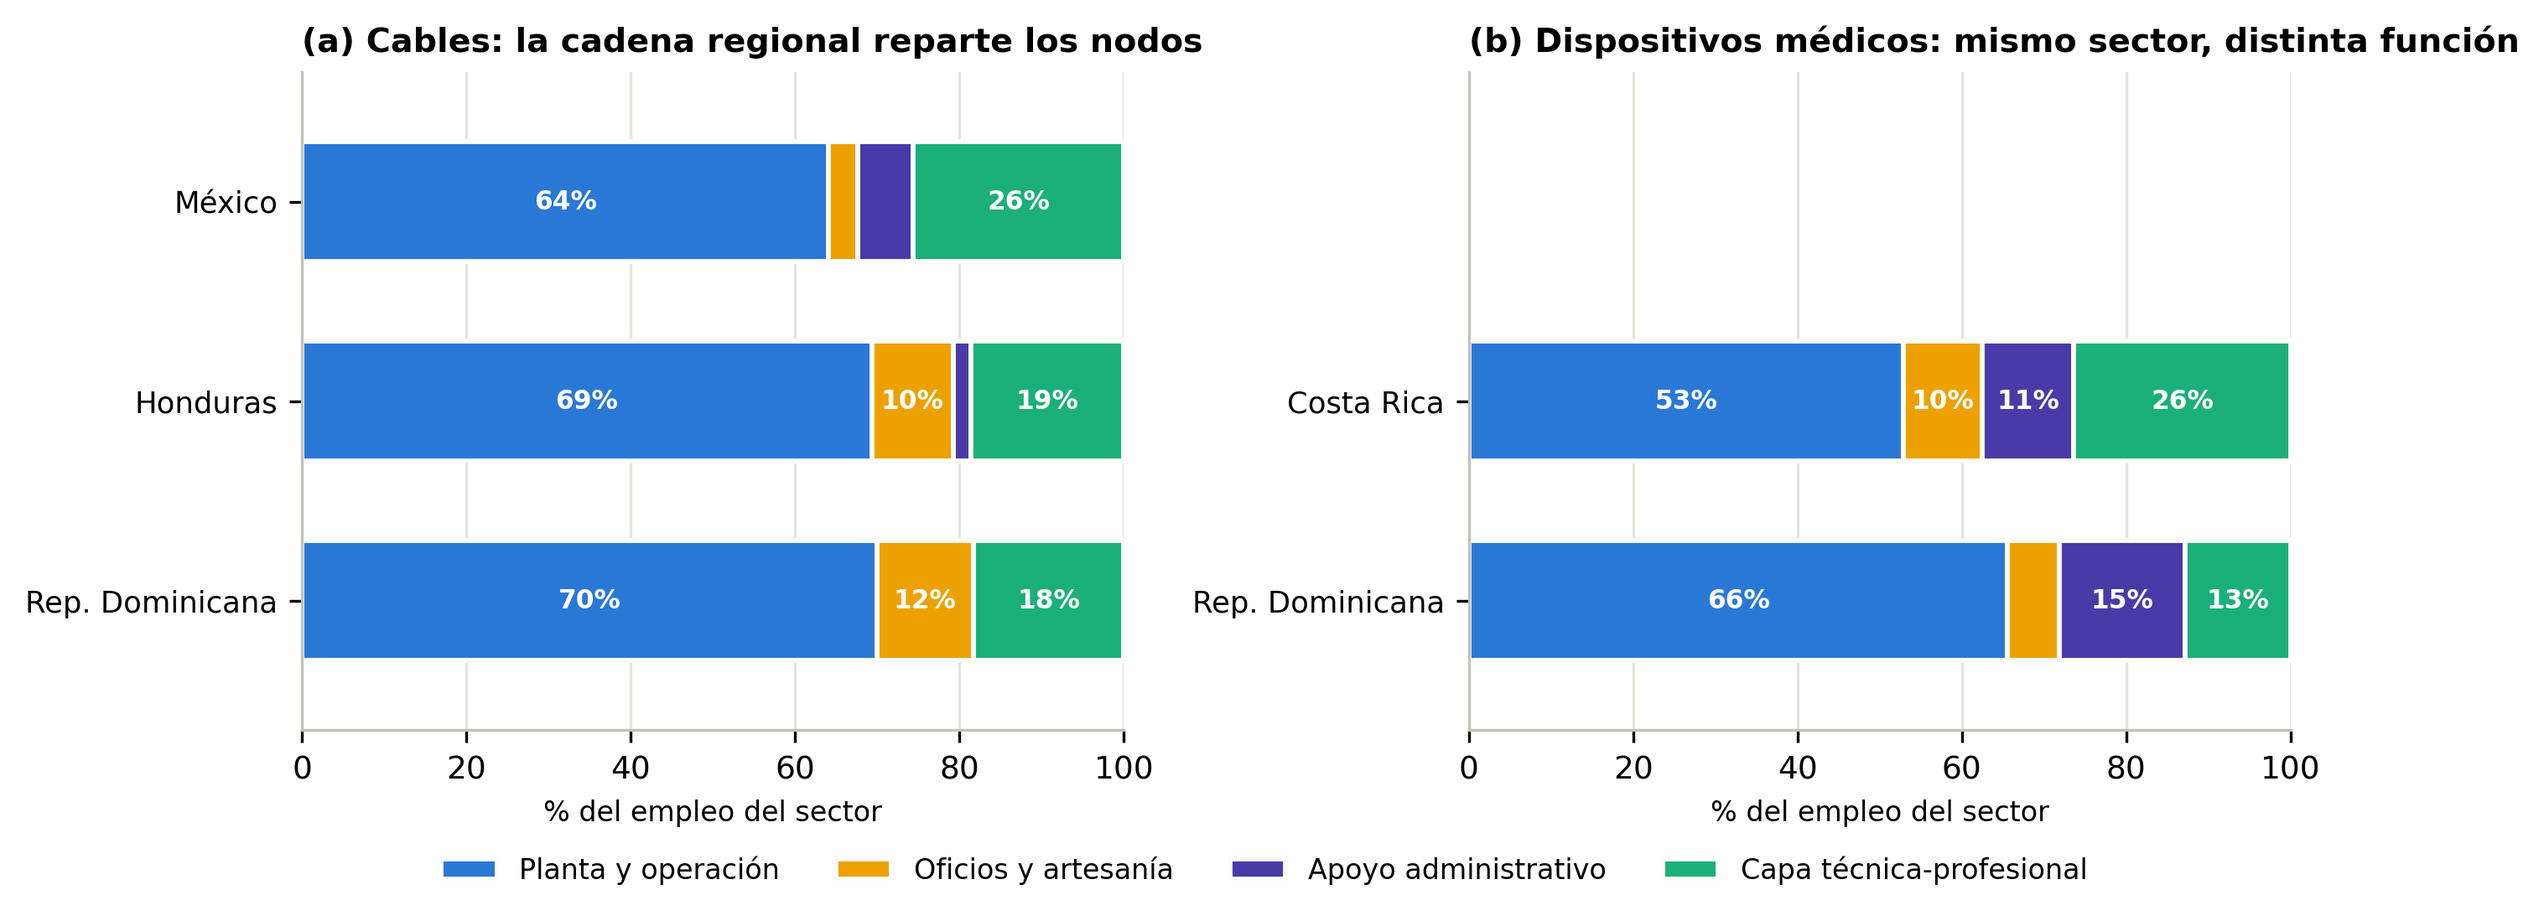
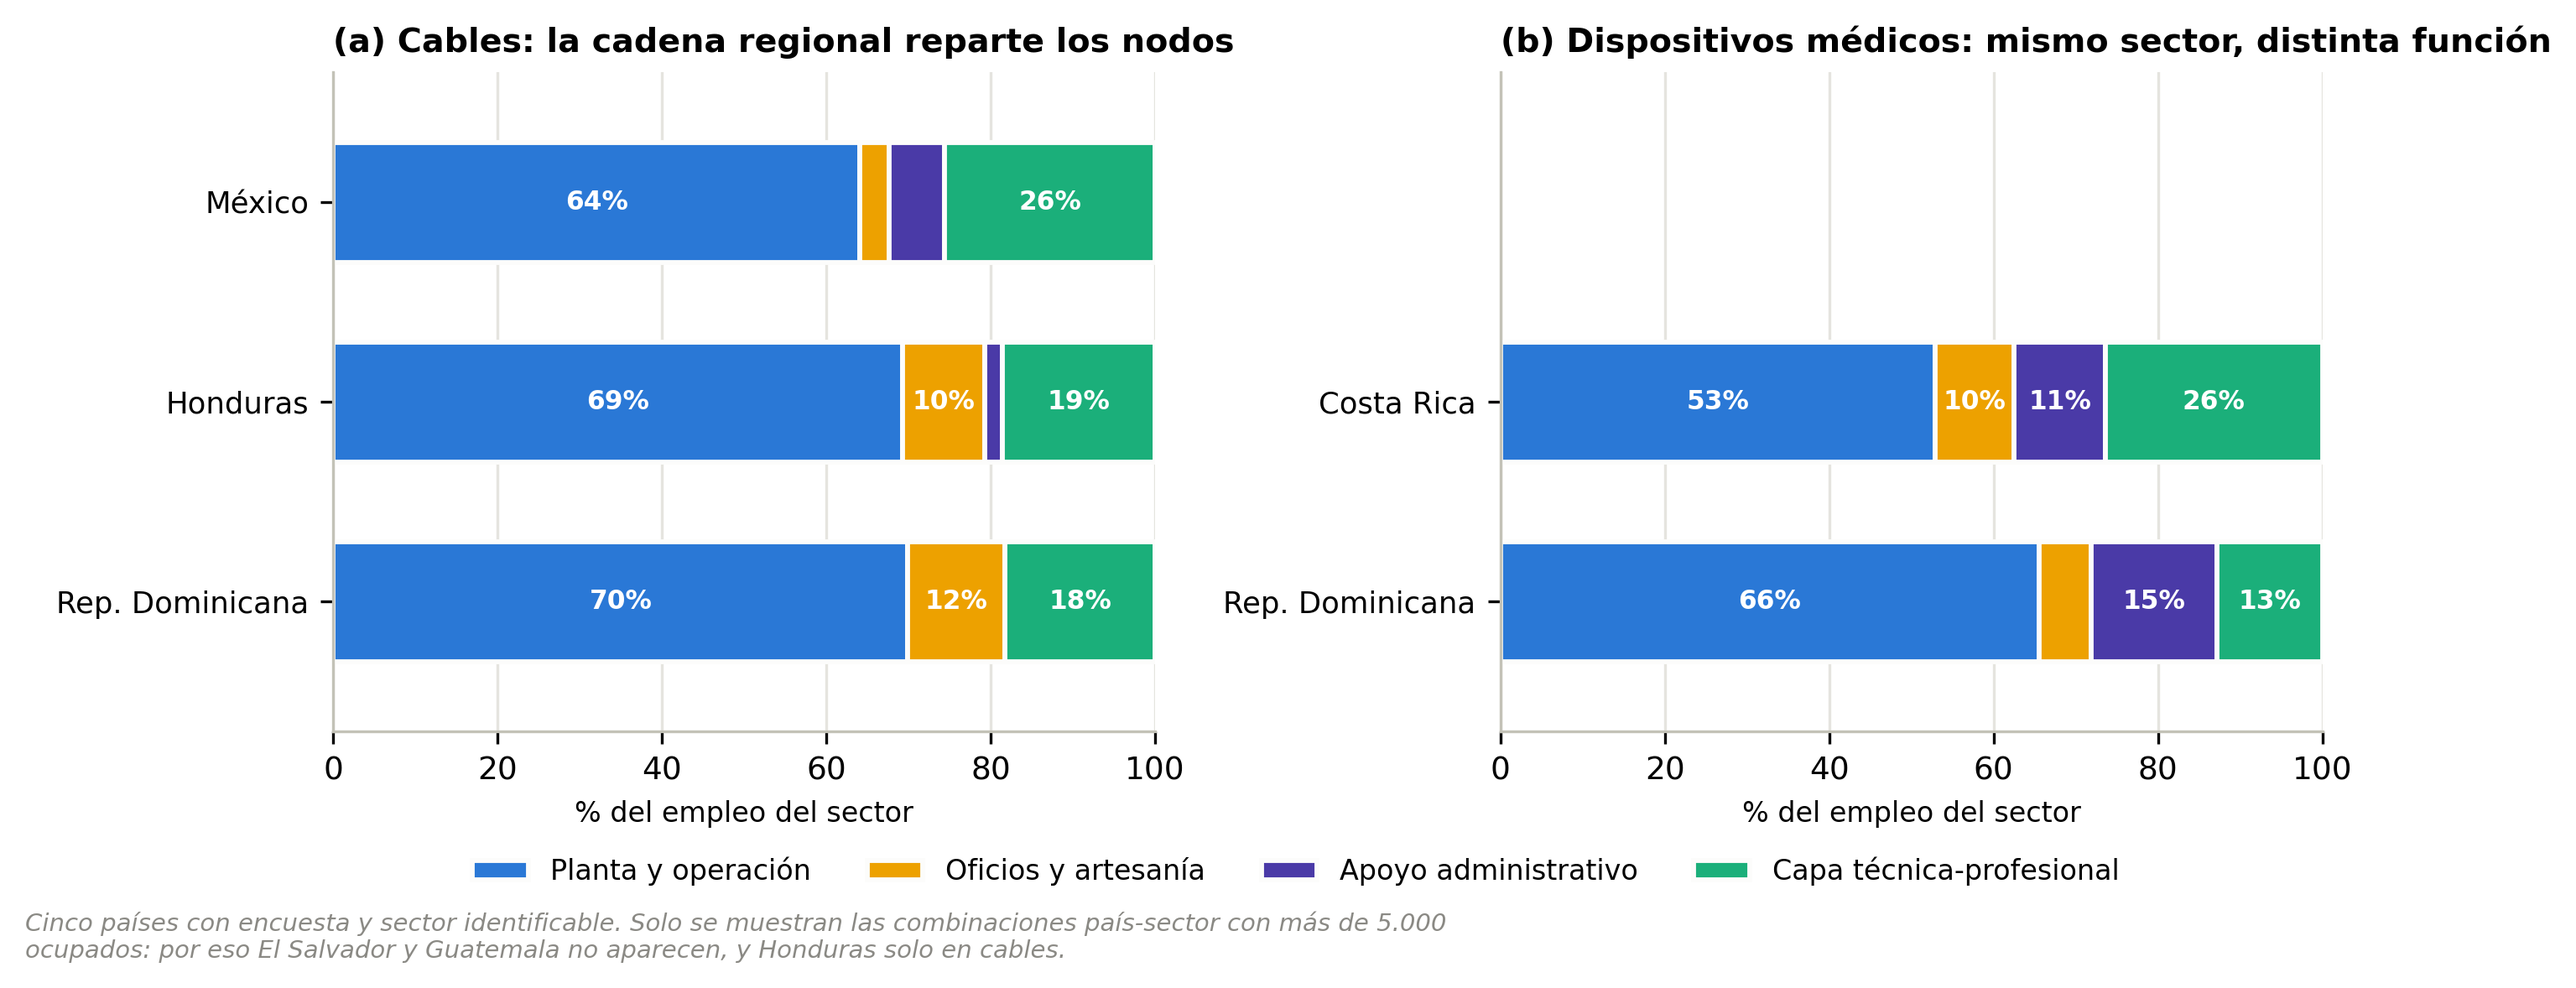
Todo anual, y cada figura declara qué países incluye
Las series pasan de trimestrales a anuales. El motivo es de potencia: el
sector de dispositivos médicos deja unas 62 observaciones por trimestre en la
ECE, con un error de muestreo de ±11 pp que hacía ilegible la serie de Costa
Rica. Agregada por año sube a ~240 observaciones y ±5,5 pp, y la serie pasa de
oscilar entre 9,9% y 36,1% a moverse entre 24% y 29%: ahora se lee como plana,
que es un hallazgo, en vez de como ruido.

Cada figura lleva ahora una línea al pie con los países incluidos y, cuando
alguno falta, por qué: umbrales de muestra en las de composición sectorial,
falta de entrega en las de vacantes, resolución de dos dígitos en Guatemala.
Va dentro de la imagen a propósito, para que la advertencia viaje con el
gráfico si se pega en una lámina.

diff --git a/index.html b/index.html
@@ -384,17 +384,17 @@ thead th{font-family:var(--mono);font-size:.68rem;letter-spacing:.08em;
         el empleo la entrega. <strong>Las dos series apuntan en direcciones
         opuestas</strong>, y esa divergencia es el hallazgo más útil de este trabajo.</p>
       <div class="cifras">
-        <div class="cifra morado"><b>−0,8</b><span>pp por año: la capa calificada del sector en México, 2022–2025</span></div>
-        <div class="cifra"><b>601→633 mil</b><span>ocupados en el mismo sector y periodo: crece, pero hacia abajo</span></div>
+        <div class="cifra morado"><b>−0,9</b><span>pp por año: la capa calificada del sector en México, 2022–2025</span></div>
+        <div class="cifra"><b>617→633 mil</b><span>ocupados en el mismo sector y periodo: crece, pero hacia abajo</span></div>
         <div class="cifra verde"><b>+6,7</b><span>pp: la capa calificada en las vacantes mexicanas, 2022–2026</span></div>
       </div>
       <figure>
         <img src="figuras/W9_escalamiento.png"
              alt="Dos paneles: la capa calificada del empleo sectorial cae en México mientras la de las vacantes sube.">
-        <figcaption>La serie costarricense se grafica más tenue porque su muestra
-          trimestral es de 38 a 92 observaciones y no sostiene una afirmación de
-          tendencia. El panel (b) cubre el total de las vacantes de cada país, no solo
-          las de los sectores estratégicos, porque el corpus no permite aislarlos.</figcaption>
+        <figcaption>Series anuales. La tendencia costarricense se grafica más tenue porque no
+          es significativa: su intervalo de confianza va de −1,0 a +1,5 puntos por año.
+          El panel (b) cubre el total de las vacantes de cada país, no solo las de los
+          sectores estratégicos, porque el corpus no permite aislarlos.</figcaption>
       </figure>
       <p>La lectura conjunta <strong>respalda el argumento y a la vez lo precisa</strong>.
         Lo respalda porque confirma que el capital humano calificado es el margen que
